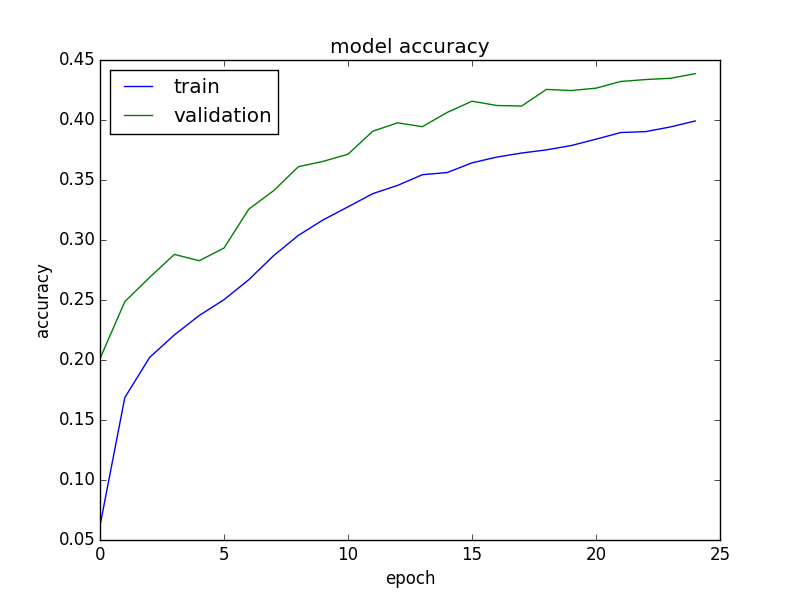
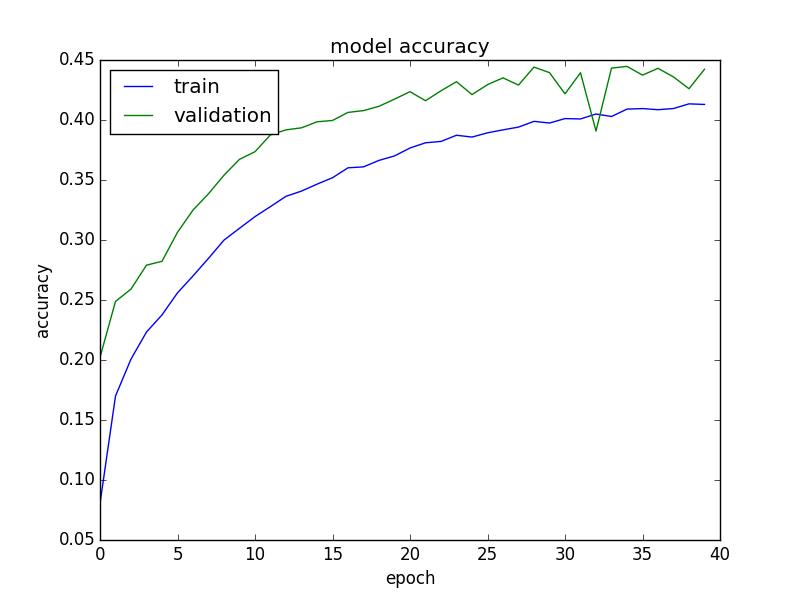
Experimento con 40 épocas

diff --git a/convnet_1000/convnet_1000.py b/convnet_1000/convnet_1000.py
@@ -17,7 +17,7 @@ import pprint
 
 batch_size = 32
 nb_classes = 91
-nb_epoch = 25
+nb_epoch = 40
 
 # input image dimensions
 img_rows, img_cols = 28, 28
